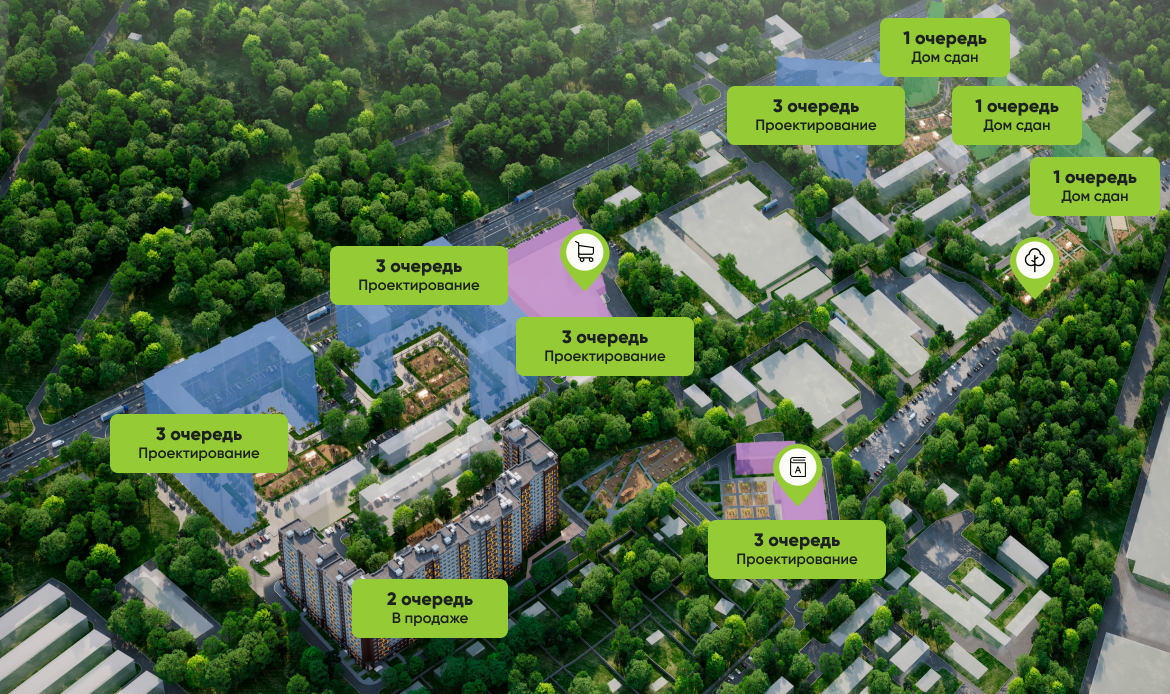
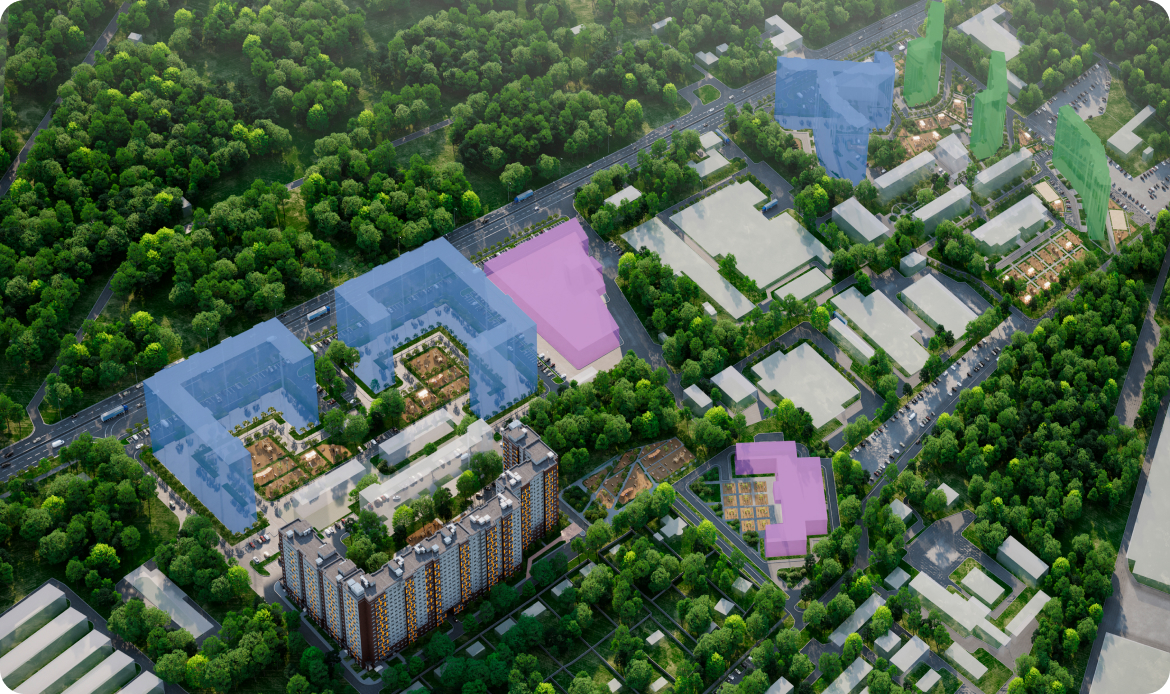
changed genplan

diff --git a/src/components/genplan.js b/src/components/genplan.js
@@ -1,24 +1,110 @@
-import React from "react"
+import React, { useEffect } from "react"
+import AOS from 'aos';
+import "aos/dist/aos.css";
 export const Genplans = () => {
-    return (
-        <div className="genplan">
-            <div className="wmain">
-                <div className="tm tt">
-                    Генплан комплекса
-                </div>
-                <div className="genplan__inner">
-                    <div className="genplan__inner_hover genplan__inner_hover1">
-                        <div className="genplan__inner_plashka">Сад</div>
-                    </div>
-                    <div className="genplan__inner_hover genplan__inner_hover2">
-                        <div className="genplan__inner_plashka">ТРЦ</div>
-                    </div>
-                    <div className="genplan__inner_hover genplan__inner_hover3">
-                        <div className="genplan__inner_plashka">Школа</div>
-                    </div>
-                    <img src="img/genplan_img.jpg" />
+    useEffect(()=>{
+        AOS.init({
+            // Global settings:
+            disable: false, // accepts following values: 'phone', 'tablet', 'mobile', boolean, expression or function
+            startEvent: 'DOMContentLoaded', // name of the event dispatched on the document, that AOS should initialize on
+            initClassName: 'aos-init', // class applied after initialization
+            animatedClassName: 'aos-animate', // class applied on animation
+            useClassNames: false, // if true, will add content of `data-aos` as classes on scroll
+            disableMutationObserver: false, // disables automatic mutations' detections (advanced)
+            debounceDelay: 50, // the delay on debounce used while resizing window (advanced)
+            throttleDelay: 99, // the delay on throttle used while scrolling the page (advanced)
+        
+        
+            // Settings that can be overridden on per-element basis, by `data-aos-*` attributes:
+            offset: 120, // offset (in px) from the original trigger point
+            delay: 200, // values from 0 to 3000, with step 50ms
+            duration: 700, // values from 0 to 3000, with step 50ms
+            easing: 'ease', // default easing for AOS animations
+            once: false, // whether animation should happen only once - while scrolling down
+            mirror: false, // whether elements should animate out while scrolling past them
+            anchorPlacement: 'top-bottom', // defines which position of the element regarding to window should trigger the animation
+        
+        });
+    },[])
+    return (<div className="genplan">
+        <div className="genplan__inner">
+            <div className="genplan__image">
+                <img src="img/genplan_img.jpg" alt="Генплан" />
+            </div>
+            <div className="genplan__block green-block-1" data-aos="fade-up">
+                <div className="genplan__block-text">
+                    <span>2 очередь</span>
+                    <br />В продаже
                 </div>
             </div>
+            <div className="genplan__block green-block-2" data-aos="fade-up">
+                <div className="genplan__block-text">
+                    <span>3 очередь</span>
+                    <br />Проектирование
+                </div>
+            </div>
+            <div className="genplan__block green-block-3" data-aos="fade-up">
+                <div className="genplan__block-text">
+                    <span>3 очередь</span>
+                    <br />Проектирование
+                </div>
+            </div>
+            <div className="genplan__block green-block-4" data-aos="fade-up">
+                <div className="genplan__block-text">
+                    <span>3 очередь</span>
+                    <br />Проектирование
+                </div>
+            </div>
+            <div className="genplan__block green-block-5" data-aos="fade-up">
+                <div className="genplan__block-text">
+                    <span>3 очередь</span>
+                    <br />Проектирование
+                </div>
+            </div>
+            <div className="genplan__block green-block-6" data-aos="fade-up">
+                <div className="genplan__block-text">
+                    <span>3 очередь</span>
+                    <br />Проектирование
+                </div>
+            </div>
+            <div className="genplan__block green-block-7" data-aos="fade-up">
+                <div className="genplan__block-text">
+                    <span>1 очередь</span>
+                    <br />Дом сдан
+                </div>
+            </div>
+            <div className="genplan__block green-block-8" data-aos="fade-up">
+                <div className="genplan__block-text">
+                    <span>1 очередь</span>
+                    <br />Дом сдан
+                </div>
+            </div>
+            <div className="genplan__block green-block-9" data-aos="fade-up">
+                <div className="genplan__block-text">
+                    <span>1 очередь</span>
+                    <br />Дом сдан
+                </div>
+            </div>
+
+            <div className="genplan__icon genplan__icon-1">
+                <div className="genplan__icon-img">
+                    <img src="img/shop.svg" alt="ТРЦ" />
+                </div>
+                <div className="genplan__icon-plashka">ТРЦ</div>
+            </div>
+            <div className="genplan__icon genplan__icon-2">
+                <div className="genplan__icon-img">
+                    <img src="img/school.svg" alt="Школа" />
+                </div>
+                <div className="genplan__icon-plashka">Школа</div>
+            </div>
+            <div className="genplan__icon genplan__icon-3">
+                <div className="genplan__icon-img">
+                    <img src="img/garden.svg" alt="Сад" />
+                </div>
+                <div className="genplan__icon-plashka">Сад</div>
+            </div>
         </div>
+    </div>
     )
 }

diff --git a/src/css/style.css b/src/css/style.css
@@ -2,6 +2,147 @@
     color: red !important;
     border-color: red !important;
 }
+/* new genplan */
+
+*,
+*::before,
+*::after {
+    box-sizing: border-box;
+    margin: 0;
+    padding: 0;
+}
+
+body {
+    font-family: 'Gilroy', sans-serif;
+}
+
+.genplan {
+    max-width: 1170px;
+    margin: 0 auto;
+}
+
+.genplan__inner {
+    position: relative;
+    min-width: 1170px;
+    min-height: 694px;
+}
+
+.genplan__image img {
+    max-width: 100%;
+    height: 694px;
+    object-fit: cover;
+}
+
+.genplan__block {
+    background-color: #95cb35;
+    width: 178px;
+    height: 59px;
+    border-radius: 8px;
+    text-align: center;
+    font-size: 18px;
+    font-weight: 600;
+    padding-top: 7px;
+    cursor: pointer;
+    position: absolute;
+    opacity: 1;
+}
+
+.genplan__block.aos-init.aos-animate:hover {
+    opacity: .5;
+}
+
+.genplan__block-text span {
+    font-weight: 900;
+}
+
+.green-block-1 {
+    bottom: 66px;
+    left: 353px;
+}
+
+.green-block-2 {
+    bottom: 225px;
+    left: 125px;
+}
+
+.green-block-3 {
+    bottom: 392px;
+    left: 330px;
+}
+
+.green-block-4 {
+    bottom: 323px;
+    left: 530px;
+}
+
+.green-block-5 {
+    bottom: 118px;
+    left: 710px;
+}
+
+.green-block-6 {
+    top: 85px;
+    right: 290px;
+}
+
+.green-block-7 {
+    top: 13px;
+    right: 125px;
+}
+
+.green-block-8 {
+    top: 80px;
+    right: 42px;
+}
+
+.green-block-9 {
+    top: 149px;
+    right: 8px;
+}
+
+.genplan__icon {
+    width: 50px;
+    height: 46px;
+    position: absolute;
+}
+
+.genplan__icon-1 {
+    top: 230px;
+    left: 560px;
+}
+
+.genplan__icon-2 {
+    top: 420px;
+    left: 772px;
+}
+
+.genplan__icon-3 {
+    bottom: 413px;
+    right: 108px;
+}
+
+.genplan__icon-plashka {
+    position: absolute;
+    top: 2px;
+    left: 50px;
+    width: 88px;
+    height: 40px;
+    text-align: center;
+    font-size: 18px;
+    font-weight: 900;
+    background-color: rgba(0, 0, 0, .5);
+    color: #fff;
+    border-radius: 5px;
+    padding-top: 8px;
+    transition: 0.4s;
+    opacity: 0;
+}
+
+.genplan__icon:hover .genplan__icon-plashka {
+    opacity: 1;
+    transform: translateX(8px);
+}
+
 /*fonts*/
 @font-face {
     font-family: 'Gilroy';
